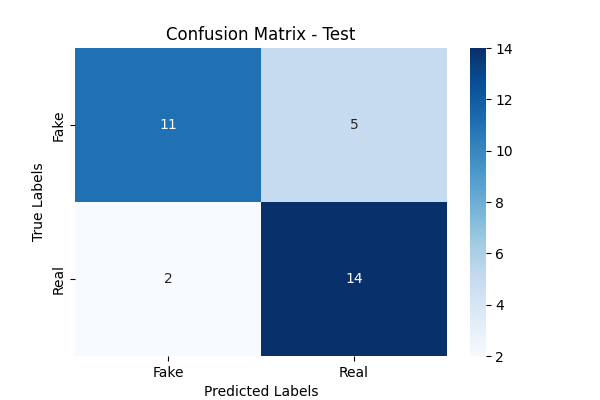
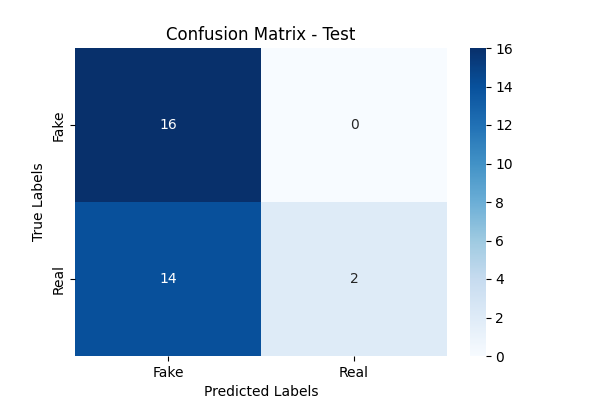
sept12.5

diff --git a/deepfakeNBF/deepfakeNBFModel.py b/deepfakeNBF/deepfakeNBFModel.py
@@ -7,6 +7,7 @@ import matplotlib.pyplot as plt
 import seaborn as sns
 import pickle
 
+
 # Paths to the saved .npy files for features and labels
 train_features_path = 'E:/498R/Code/Result/simple/Train/train_features.npy'
 train_labels_path = 'E:/498R/Code/Result/simple/Train/train_labels.npy'
@@ -16,6 +17,8 @@ test_labels_path = 'E:/498R/Code/Result/simple/Test/test_labels.npy'
 
 val_features_path = 'E:/498R/Code/Result/simple/Validation/validation_features.npy'
 val_labels_path = 'E:/498R/Code/Result/simple/Validation/validation_labels.npy'
+# Enable interactive mode
+plt.ion()
 
 # Load the features and labels for train, test, and validation datasets
 train_features = np.load(train_features_path)
@@ -34,10 +37,13 @@ test_labels = np.array([label_mapping[label] for label in test_labels])
 val_labels = np.array([label_mapping[label] for label in val_labels])
 
 # 1. Train an SVM model
-clf = svm.SVC(probability=True)  # Set probability=True to get confidence scores later
+clf = svm.SVC(kernel='linear',probability=True)  # Set probability=True to get confidence scores later
 clf.fit(train_features, train_labels)
 
 # 2. Evaluate the model
+# Predict on the train set
+train_predictions = clf.predict(train_features)
+
 # Predict on the test set
 test_predictions = clf.predict(test_features)
 
@@ -46,6 +52,12 @@ val_predictions = clf.predict(val_features)
 
 # 3. Calculate and save metrics (Accuracy, Recall, F1, Precision) for test and validation sets
 metrics = {}
+
+# Calculate metrics for train set
+metrics['train_accuracy'] = accuracy_score(train_labels, train_predictions)
+metrics['train_recall'] = recall_score(train_labels, train_predictions)
+metrics['train_precision'] = precision_score(train_labels, train_predictions)
+metrics['train_f1'] = f1_score(train_labels, train_predictions)
 
 # Calculate metrics for test set
 metrics['test_accuracy'] = accuracy_score(test_labels, test_predictions)
@@ -58,6 +70,29 @@ metrics['val_accuracy'] = accuracy_score(val_labels, val_predictions)
 metrics['val_recall'] = recall_score(val_labels, val_predictions)
 metrics['val_precision'] = precision_score(val_labels, val_predictions)
 metrics['val_f1'] = f1_score(val_labels, val_predictions)
+
+# Format the metrics to two decimal points
+formatted_metrics = {k: f"{v:.2f}" for k, v in metrics.items()}
+
+# Create a table to display the metrics
+fig, ax = plt.subplots()
+ax.axis('tight')
+ax.axis('off')
+table_data = [
+    ["Metric", "Train", "Test", "Validation"],
+    ["Accuracy", formatted_metrics['train_accuracy'], formatted_metrics['test_accuracy'], formatted_metrics['val_accuracy']],
+    ["Recall", formatted_metrics['train_recall'], formatted_metrics['test_recall'], formatted_metrics['val_recall']],
+    ["Precision", formatted_metrics['train_precision'], formatted_metrics['test_precision'], formatted_metrics['val_precision']],
+    ["F1 Score", formatted_metrics['train_f1'], formatted_metrics['test_f1'], formatted_metrics['val_f1']]
+]
+
+table = ax.table(cellText=table_data, loc='center', cellLoc='center', colWidths=[0.2]*4)
+table.auto_set_font_size(False)
+table.set_fontsize(12)
+table.scale(1.2, 1.2)
+# Save the plot to a file
+plt.savefig('E:/498R/Code/Result/simple/resultTable.png', format='png', dpi=300, bbox_inches='tight')
+plt.show()
 
 # Save the results
 results_path = 'E:/498R/Code/Result/simple/svm_metrics.pkl'
@@ -110,7 +145,7 @@ def predict_new_image(features, model_path='E:/498R/Code/Result/simple/svm_model
 # new_image_features = np.load('path_to_new_image_features.npy')  # Replace with actual features array
 
 # Just replace the path to the saved features array if needed
-test_image='E:/498R/Code/Testingimage/r.jpg'
+test_image='E:/498R/Code/Testingimage/f.jpg'
 faceloading=Faceloading()
 new_image_features = faceloading.extract_features_from_image(test_image)  # Replace with real features from your system
 predict_new_image(new_image_features)

diff --git a/deepfakeNBF/deepfakeNBF2.py b/deepfakeNBF/deepfakeNBF2.py
@@ -10,11 +10,12 @@ import pickle
 
 # Base dataset directory
 base_dataset_dir = 'E:/498R/dataset_simple'
+# base_dataset_dir = 'E:/498R/Dataset'
 
 class Faceloading:
     def __init__(self, directory):
         self.directory = directory
-        self.target_size = (160, 160)
+        self.target_size = (224, 224)
         self.featureI = []
         self.classL = []
         self.detector = MTCNN()
@@ -25,8 +26,9 @@ class Faceloading:
         result = self.detector.detect_faces(image)
         if result:  # Ensure a face is detected
             x, y, w, h = result[0]['box']
+            imager = cv.imread(dir)
             x, y = abs(x), abs(y)
-            face = image[y:y + h, x:x + w]
+            face = imager[y:y + h, x:x + w]
             face_arr = cv.resize(face, self.target_size)
             return face_arr
         else:
@@ -125,4 +127,5 @@ for dataset_type in ['Train', 'Test', 'Validation']:
     
     # Save the features and labels for this dataset
     output_dir = f'E:/498R/Code/Result/simple/{dataset_type}'
+    # output_dir = f'E:/498R/Code/Result/full/{dataset_type}'
     save_data(features, labels, output_dir, dataset_type.lower())

diff --git a/deepfakeNBF/gpuu.py b/deepfakeNBF/gpuu.py
@@ -1,0 +1,2 @@
+import tensorflow as tf
+print("Num GPUs Available: ", len(tf.config.list_physical_devices('GPU')))
